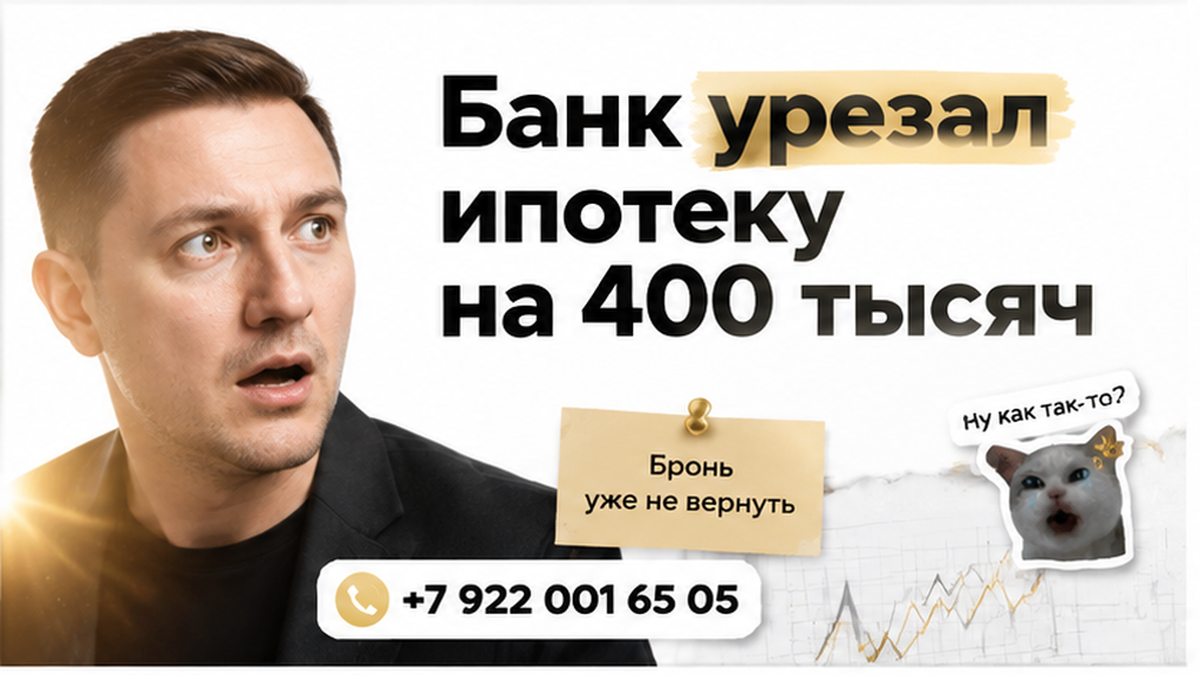
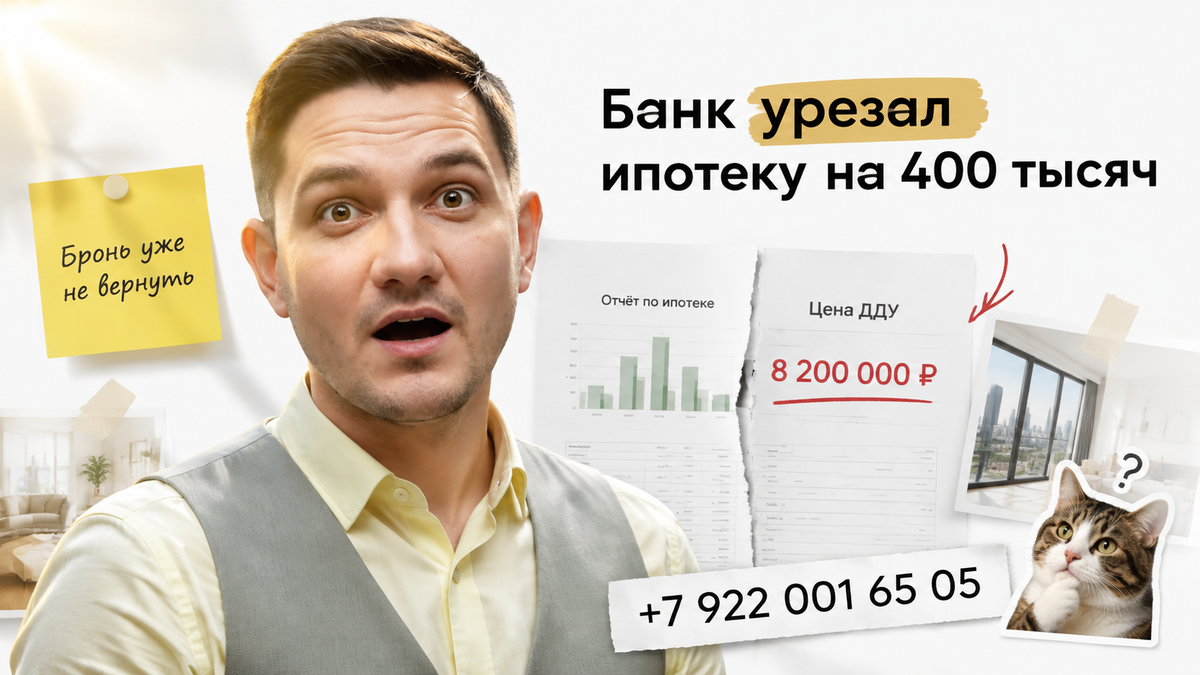
Publish B23: банковская оценка ниже цены ДДУ — live WP post 9684
- Scout→Publish pipeline complete for newbuild casus
- Cover QA PASS after fixer attempt 2 (face close-up)
- Quality-bar-9 PASS, live-page gate PASS
- Post-publish interlink to 3 siblings

diff --git a/memory/blog/articles/B23-v-tyumeni-odobrili-ipoteku-na-novostrojku-ocenka-banka-nizhe-ceny-ddu/drafts/variant-a.html b/memory/blog/articles/B23-v-tyumeni-odobrili-ipoteku-na-novostrojku-ocenka-banka-nizhe-ceny-ddu/drafts/variant-a.html
@@ -8,7 +8,15 @@
 </div>
 
 <h2>«Ипотеку одобрили» — и семья забронировала новостройку</h2>
+<figure class="inline-quad" data-slot="inline_1">
+  <img src="cover/inline-01.png" alt="реалистичный кадр (без лица хоста) к разделу ««Ипотеку одобрили» — и семья забронировала ново…» в Тюмени — иллюстрация к кейсу о сделке." loading="lazy">
+</figure>
 
+
+
+<figure class="inline-quad" data-slot="inline_2">
+  <img src="cover/inline-02.png" alt="сравнительная таблица с колонками по новостройке в Тюмени: Бронь не фиксирует цену, Банк проверяет залог, Оценка после брони — иллюстрация…" loading="lazy">
+</figure>
 <p>Началось всё по учебнику. Двое взрослых, двое детей, семейная ипотека со ставкой до 6%, первоначальный взнос собрали чуть больше минимальных 20%. Банк посмотрел доходы, кредитную историю, посчитал платёж и прислал в смс сумму кредита. Вот эту сумму семья и приняла за окончательную — как приговор, только приятный.</p>
 
 <p>Дальше поехали по корпусам. Выбрали квартиру с нормальной планировкой и видом не в стену, внесли плату за бронь, получили срок — две недели с запасом «на всякий случай». Две недели — это уже почти своё. Вечером на кухне обсуждают, куда встанет диван и хватит ли после переезда на кухонный гарнитур.</p>
@@ -18,7 +26,15 @@
 <p>И вот тут ошибка не в невнимательности. Предварительное одобрение — это ответ банка на вопрос «потянете ли вы платёж». Не на вопрос «дадим ли мы ровно столько именно под эту квартиру». Между этими двумя ответами лежит отдельная процедура, и запускается она уже после того, как вы заплатили за бронь. Похожая развилка была в <a href="/blog/ipoteka/semejnuyu-ipoteku-na-novostrojku-odobrili-eskrou-ne-otkryli/">истории, где семейную ипотеку одобрили, а эскроу так и не открыли</a>.</p>
 
 <h2>Между одобрением и ДДУ банк смотрит на объект отдельно</h2>
+<figure class="inline-quad" data-slot="inline_3">
+  <img src="cover/inline-03.png" alt="реалистичный кадр (без лица хоста) к разделу «Между одобрением и ДДУ банк смотрит на объект о…» в Тюмени — иллюстрация к кейсу о сделке." loading="lazy">
+</figure>
 
+
+
+<figure class="inline-quad" data-slot="inline_7">
+  <img src="cover/inline-07.png" alt="схема устройства механизма по новостройке в Тюмени: Вопрос банку заранее, До эскроу можно стоп, Один звонок менеджеру — иллюстрация к…" loading="lazy">
+</figure>
 <p>Цепочка, как её видит банк, длиннее, чем кажется покупателю: бронь, предварительное одобрение заёмщика, аккредитация объекта, оценка, финальное одобрение суммы уже по конкретной квартире, подписание и регистрация ДДУ, эскроу, выдача кредита.</p>
 
 <p>Покупатель живёт в первых двух пунктах. Всё остальное для него — «формальности, менеджер сказал, за неделю закроем».</p>
@@ -28,12 +44,18 @@
 <p>Запомните одну вещь: бронь даёт вам время. Стоимость квартиры для банка она не фиксирует.</p>
 
 <h2>За неделю до подписания пришёл отчёт об оценке</h2>
+<figure class="inline-quad" data-slot="inline_4">
+  <img src="cover/inline-04.png" alt="реалистичный кадр (без лица хоста) к разделу «За неделю до подписания пришёл отчёт об оценке» в Тюмени — иллюстрация к кейсу о сделке." loading="lazy">
+</figure>
+
 
 <p>Дата подписания стояла в календаре, отпуск на работе был согласован под неё, а последний разговор с банком казался галочкой. В пятницу вечером на почту упал файл — двадцать с лишним страниц. Отчёт об оценке. Открыли между делом, из любопытства.</p>
 
 <p>В этом отчёте нет ни слова про семью. Ни про зарплату, ни про детей, ни про диван, который уже мысленно поставили к окну. Там квартира как предмет залога: адрес, площадь, этаж, стадия готовности дома, планировка, вид. И аналоги — похожие квартиры, что продаются рядом. Из аналогов оценщик и выводит рыночную стоимость.</p>
 
 <p>Вот здесь и живёт развилка, которую покупатель обычно не видит вообще. <b>Цена в ДДУ</b> — то, о чём вы договорились с застройщиком. <b>Рыночная стоимость в отчёте</b> — во сколько независимый оценщик оценил объект, посмотрев на первичку и вторичку вокруг. Два разных числа. Совпадать они не обязаны. Оценщик не спорит с застройщиком и не решает, справедливая цена или нет: он отвечает банку на один вопрос — сколько это стоит на рынке сегодня.</p>
+
+<p>На кухне в тот вечер на столе лежали только телефон и бутылка воды — диван ещё не купили, а PDF уже решал, сколько кредита дадут. Семья пролистала отчёт до конца, потом вернулась к первой странице: цифры от прокрутки не менялись.</p>
 
 <p>Почему числа расходятся всё чаще, видно по общей картине. По аналитической записке Банка России разрыв цен между первичным и вторичным рынком вырос с 9% в четвёртом квартале 2019 года до 52% в первом квартале 2026-го. Цифра общероссийская, а не приговор конкретной тюменской квартире, но направление объясняет: новостройка по субсидированной программе может стоить заметно дороже того, что оценщик видит в аналогах. Льготная ставка не обязывает его принимать цену договора. А если после брони подписали допсоглашение и цена подросла — разрыв стал только шире.</p>
 
@@ -42,6 +64,10 @@
 <p>По нерву это тот же сюжет, что и когда <a href="/blog/ipoteka/v-tyumeni-nakanune-ddu-bank-podnyal-stavku-ipoteki-platezh-vyros-sdelku-ostanovi/">накануне ДДУ банк поднял ставку и платёж вырос</a>: там поехали условия по деньгам заёмщика, здесь — цифра по залогу. Точка входа одна и та же — последняя неделя перед подписанием.</p>
 
 <h2>Разрыв в 400 тысяч — кредита не хватило, бронь сгорела</h2>
+<figure class="inline-quad" data-slot="inline_5">
+  <img src="cover/inline-05.png" alt="нумерованный процесс / таймлайн по новостройке в Тюмени: Бронь истекла в среду, Деньги не вернули, ДДУ не подписали — иллюстрация к…" loading="lazy">
+</figure>
+
 
 <p>В понедельник позвонил менеджер: «Отчёт пришёл, я пересчитал сумму. Она меньше».</p>
 
@@ -56,6 +82,10 @@
 <p>Если банк пересчитал кредит за неделю до ДДУ, вы бы нашли недостающие 400 тысяч или отказались, даже рискуя потерять бронь?</p>
 
 <h2>Что проверить до ДДУ, если оценка может быть ниже цены</h2>
+<figure class="inline-quad" data-slot="inline_6">
+  <img src="cover/inline-06.png" alt="график / шкала сроков по новостройке в Тюмени: Спросить про оценку, Проверить сумму кредита, Срок отчёта 3–6 месяцев — иллюстрация к…" loading="lazy">
+</figure>
+
 
 <p>Самое обидное в этой истории — не разрыв в 400 тысяч. Обидно, что про него узнали за неделю до подписания. Этот же вопрос можно было задать за месяц, и ответ занял бы один звонок.</p>
 

diff --git a/memory/blog/articles/B23-v-tyumeni-odobrili-ipoteku-na-novostrojku-ocenka-banka-nizhe-ceny-ddu/assembled-sol-expand-inputs.md b/memory/blog/articles/B23-v-tyumeni-odobrili-ipoteku-na-novostrojku-ocenka-banka-nizhe-ceny-ddu/assembled-sol-expand-inputs.md
@@ -1,3 +1,11 @@
+# Sol expand pass (quality-bar word_count only)
+
+Текущий article.html: 1766 слов. Нужно **1800–2000** слов без изменения фактов, H1, H2, CTA, interlinks, comment magnet.
+
+Задача: добавить **40–80 слов** живой kitchen-table прозы (1–2 предложения) в середину статьи — в раздел про отчёт об оценке или про разрыв 400 тысяч. Не дублируй сцену из лида. Не добавляй disclaimer. Не меняй структуру.
+
+## Current article.html
+```html
 <p>За пять дней до подписания ДДУ семье сказали, что банк оценил их квартиру в новостройке на 400 тысяч дешевле цены в договоре, — и бронь сгорела. Одобрение ипотеки лежало у них на руках третью неделю: сумма кредита, первоначальный взнос, платёж — всё было разложено по строчкам в заметках на телефоне. Оставалось приехать в офис, подписать бумаги и открыть эскроу, дату подписания уже вписали в календарь и подогнали под неё отпуск. Вместо этого в пятницу вечером на почту упал отчёт об оценке, а в понедельник менеджер пересчитал максимальную сумму кредита — и её не хватило. Срок брони истекал в среду: квартиру вернули в продажу, деньги за бронирование и за оценку никто не вернул.</p>
 
 <div class="excalibur-cta-early">
@@ -54,8 +62,6 @@
 <p>В этом отчёте нет ни слова про семью. Ни про зарплату, ни про детей, ни про диван, который уже мысленно поставили к окну. Там квартира как предмет залога: адрес, площадь, этаж, стадия готовности дома, планировка, вид. И аналоги — похожие квартиры, что продаются рядом. Из аналогов оценщик и выводит рыночную стоимость.</p>
 
 <p>Вот здесь и живёт развилка, которую покупатель обычно не видит вообще. <b>Цена в ДДУ</b> — то, о чём вы договорились с застройщиком. <b>Рыночная стоимость в отчёте</b> — во сколько независимый оценщик оценил объект, посмотрев на первичку и вторичку вокруг. Два разных числа. Совпадать они не обязаны. Оценщик не спорит с застройщиком и не решает, справедливая цена или нет: он отвечает банку на один вопрос — сколько это стоит на рынке сегодня.</p>
-
-<p>На кухне в тот вечер на столе лежали только телефон и бутылка воды — диван ещё не купили, а PDF уже решал, сколько кредита дадут. Семья пролистала отчёт до конца, потом вернулась к первой странице: цифры от прокрутки не менялись.</p>
 
 <p>Почему числа расходятся всё чаще, видно по общей картине. По аналитической записке Банка России разрыв цен между первичным и вторичным рынком вырос с 9% в четвёртом квартале 2019 года до 52% в первом квартале 2026-го. Цифра общероссийская, а не приговор конкретной тюменской квартире, но направление объясняет: новостройка по субсидированной программе может стоить заметно дороже того, что оценщик видит в аналогах. Льготная ставка не обязывает его принимать цену договора. А если после брони подписали допсоглашение и цена подросла — разрыв стал только шире.</p>
 
@@ -122,3 +128,4 @@
 <li><a href="https://vk.ru/tymenrieltor">ВКонтакте</a></li>
 </ul>
 </div>
+```

diff --git a/shared/published-titles.md b/shared/published-titles.md
@@ -25,3 +25,4 @@ lessons, benchmarks, QA reports или соседние research-notes как о
 | B19 | semejnuyu-ipoteku-na-novostrojku-odobrili-eskrou-ne-otkryli | В Тюмени ипотеку одобрили — эскроу сорвал маткапитал | published |
 | B20 | v-tyumeni-zastrojschik-smenil-yurlico-dolschikam-prislali-novyj-ddu-eskrou-ne-ot | В Тюмени застройщик сменил юрлицо — банк не открыл эскроу | published |
 | B21 | v-tyumeni-oplatili-kladovku-po-ddu-na-klyuchah-pomescheniya-ne-bylo | V tyumeni oplatili kladovku po ddu na klyuchah pomescheniya ne bylo | published |
+| B22 | v-tyumeni-nakanune-ddu-bank-podnyal-stavku-ipoteki-platezh-vyros-sdelku-ostanovi | В Тюмени банк поднял ставку ипотеки перед ДДУ — бронь сгорела | published |
